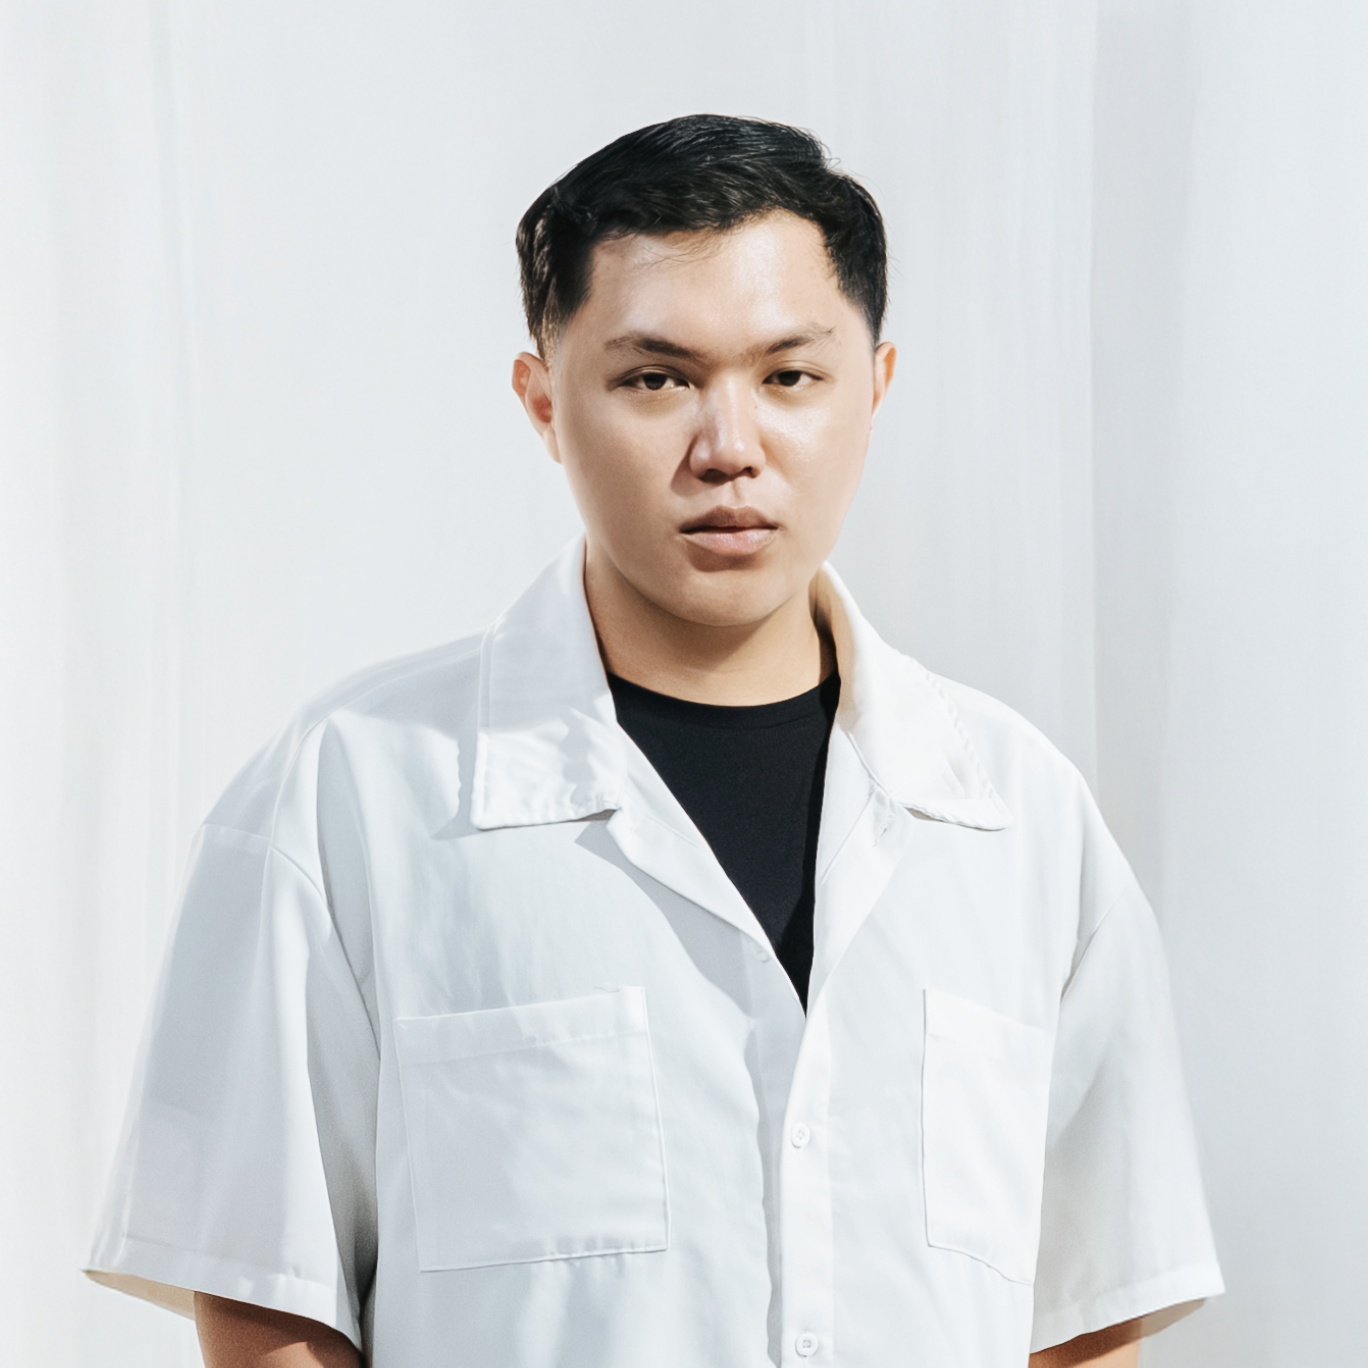
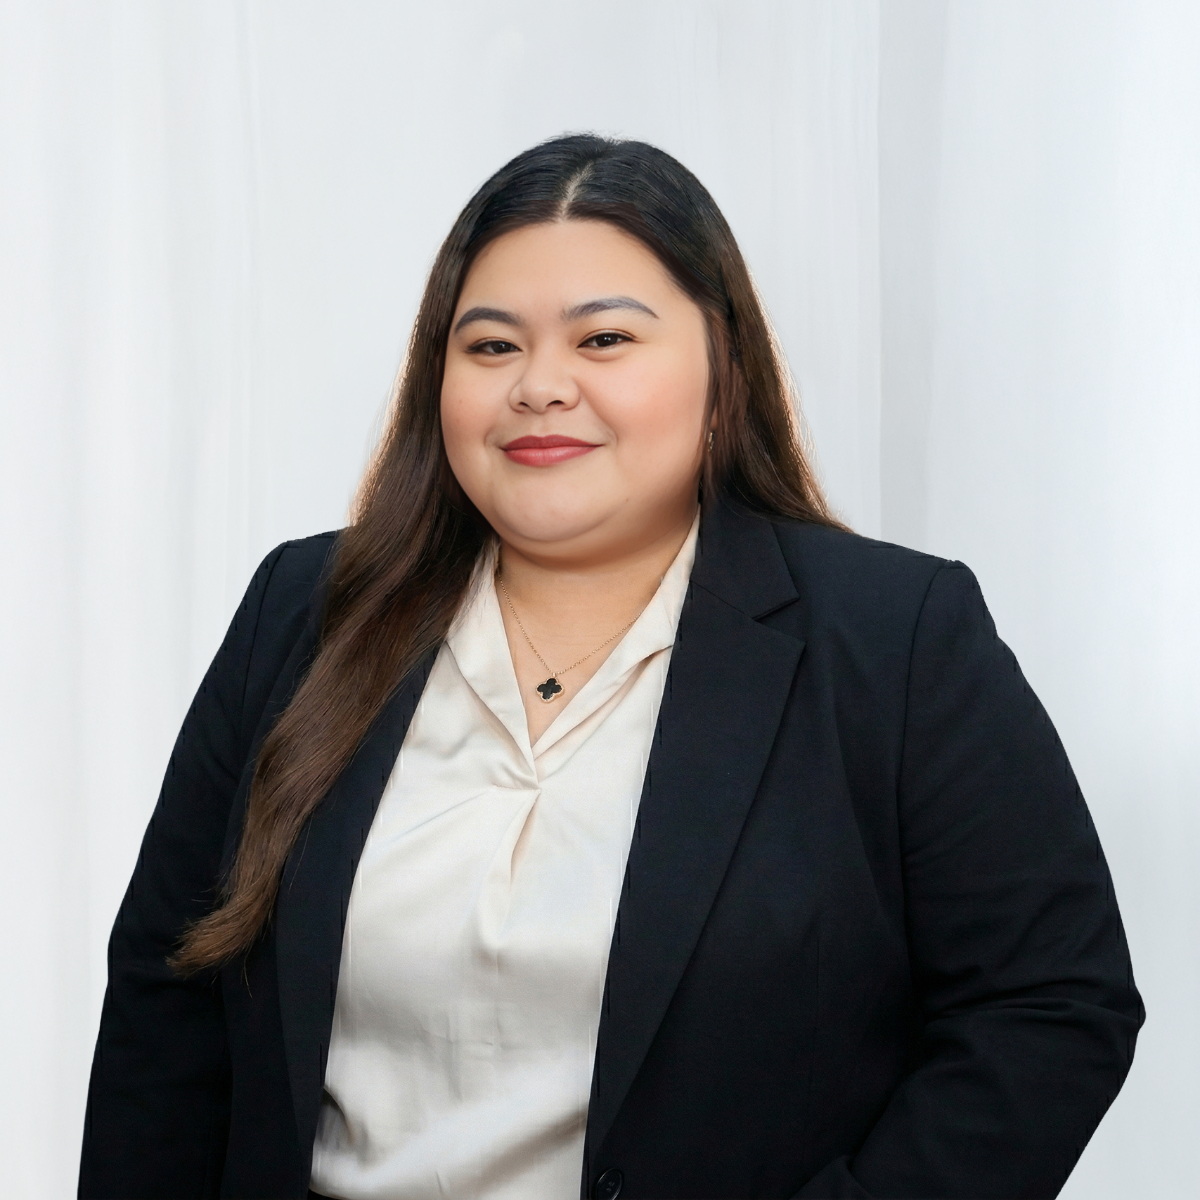
Restore Claudette's photo; add Francis headshot as separate file

diff --git a/src/pages/for-agencies/page.tsx b/src/pages/for-agencies/page.tsx
@@ -1376,7 +1376,7 @@ export default function ForAgenciesPage() {
               "We didn't build Sentro OS to sell software. We built it because we needed it — and it turned out everyone else needed it too."
             </p>
             <div className="flex items-center justify-center gap-3">
-              <img src="/images/6785570f89c09728ca73acf4660742b6.png" alt="Francis Fiel Roble" className="w-8 h-8 rounded-full object-cover border-2 border-white/30" />
+              <img src="/images/francis-fiel-roble-headshot.png" alt="Francis Fiel Roble" className="w-8 h-8 rounded-full object-cover border-2 border-white/30" />
               <p className="text-xs text-white/60">Francis Fiel Roble · Founder, Huna Creatives</p>
             </div>
           </div>
